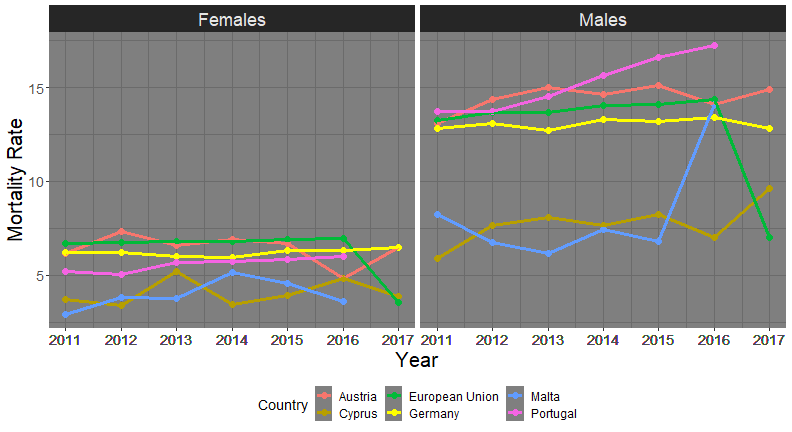
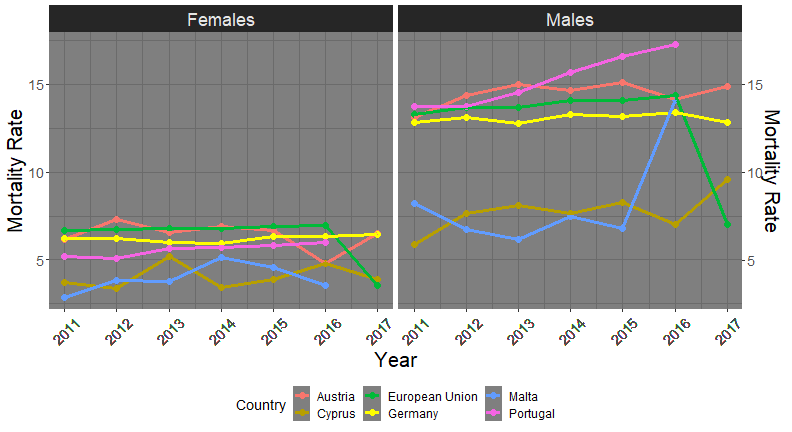
more alterations to the presentation

diff --git a/ninja-presentation.html b/ninja-presentation.html
@@ -27,7 +27,9 @@ class: title-slide
 ---
 class: intro-slide
 
+.center[
 # Introduction 
+]
 
 ## Selected Countries &amp; Cancer Site
 * Austria, Cyprus, Germany, Malta, Portugal and European Union
@@ -69,7 +71,7 @@ class: fifth-slide, center
 * Mortality rate is **higher for the Male population** &amp; **Older population** is more **susceptible** to die due to this kind of cancer
 
 ---
-class: sixth-slide
+class: sixth-slide, middle
 
 .center[
 ## Changes in percentage terms between 2011 and 2016
@@ -130,15 +132,14 @@ class: seventh-slide, center
 
 ## Changes in percentage terms between 2011 and 2016 
 
-&lt;img src="ninja-presentation_files/figure-html/female population.ex3-1.png" style="display: block; margin: auto;" /&gt;
-
- * **Portugal, European Union and Germany** display **stable** values along the years &amp; **Cyprus, Austria and Malta** show a very **irregular trend** throughout the years
-
- * A general **stabilization** across the years **except for Malta** (Which has a **75% increase** in the mortality rate, from 2011 to 2016)
+&lt;img src="ninja-presentation_files/figure-html/ex3-1.png" style="display: block; margin: auto;" /&gt;
 
 ---
-class: eighth-slide
+class: eighth-slide, middle
+
+.center[
 ## Most common cancers for Females in 2011 and 2016
+]
 
 
 
@@ -201,9 +202,13 @@ class: eighth-slide
  * **Decreases:** Colon and Ovary
  
 ---
-class: ninth-slide
+class: ninth-slide, middle
 
+.center[
 ## Most common cancers for Males in 2011 and 2016
+]
+
+
 
 
 
@@ -254,6 +259,7 @@ class: ninth-slide
   &lt;/tr&gt;
 &lt;/tbody&gt;
 &lt;/table&gt;
+
 
  * Only change is **Liver over Stomach**
  
